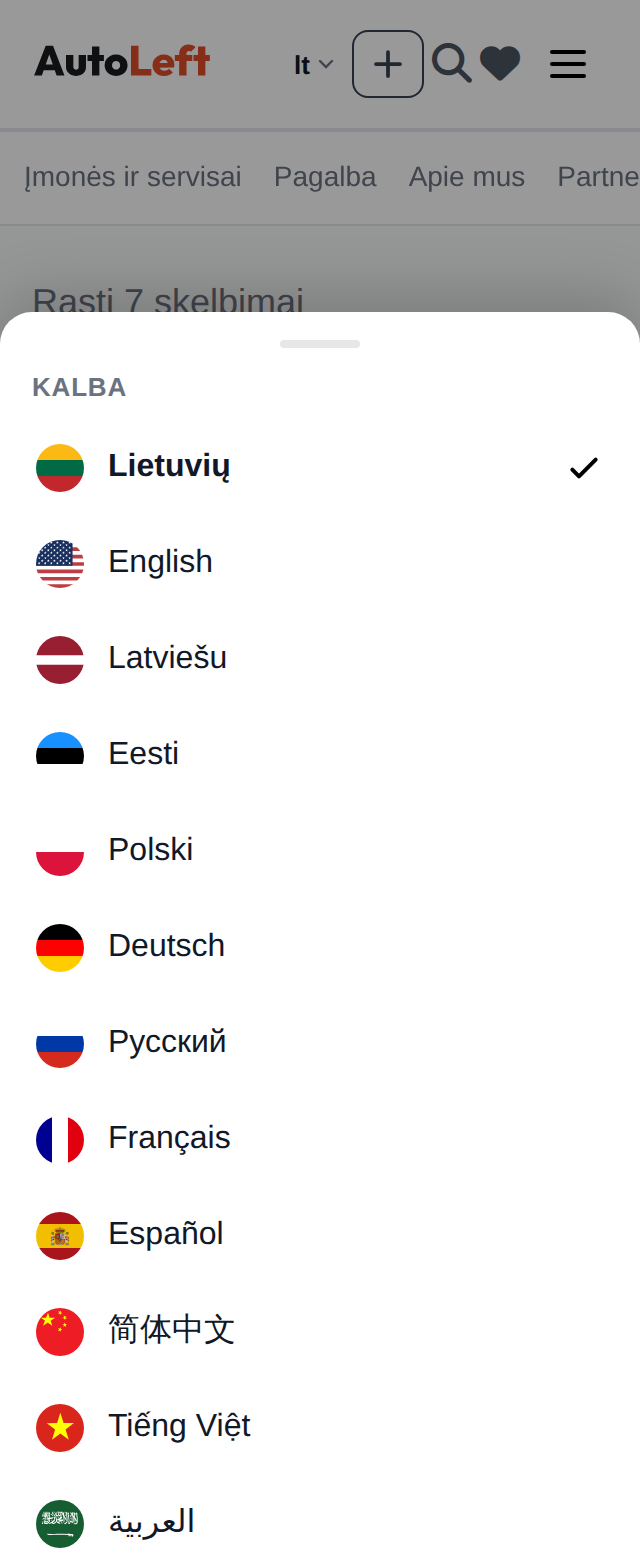
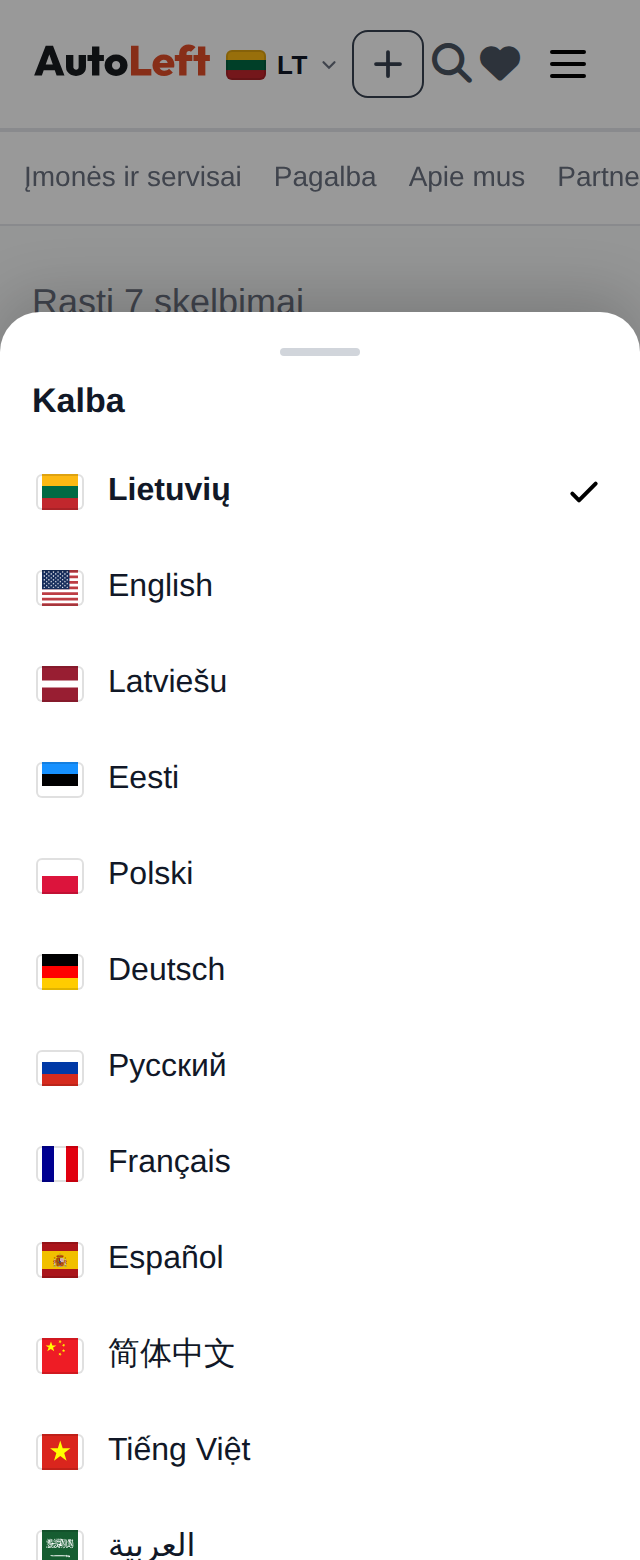
fix(antraste): mobili antraštė ir šalies juosta 1:1 pagal demo
Etalonas — docs/demo/mob-antraste-demo.html.

KALBOS MYGTUKAS. Vėliavėlė 20×15 (radius 3, vidinis rėmelis), kalbos
kodas ir 11 px rodyklė; 56×36 px, be fono ir rėmelio, tarpas 5 px.
Kodas rodomas DIDŽIOSIOMIS per `text-transform: uppercase` — pati
reikšmė duomenyse lieka „lt", „zh-hans". Slėpimo taisyklės ties 360 px
nebėra jokios. Vėliavos imamos iš flag-icons: static/flags/ turi tik
salys.py šalis, o cn/vn/sa/kr ten nėra ir kinų ar korėjiečių vartotojas
liktų be ženklo.

Vietos atlaisvina „Įkelti": ties ≤340 px lieka tik pliuso ženklas
(buvo ≤370 px).

ŠALIES JUOSTA. Viena 52 px eilutė, kuri nesilaužo: trumpinamas TIK
pavadinimas, o vėliava (18×13), skaičius ir „Keisti" — flex: 0 0 auto,
„Keisti" per margin-left:auto. Anksčiau ellipsis kabojo ant skaičiaus,
todėl telefone matėsi „18 sk…", o „Visos šalys" krisdavo į antrą eilutę.
Smeigtukas 15 px, „Keisti" 34 px su 11 px rodykle — kaip etalone.

KALBŲ LAKŠTAS. Apvalinimas 20 px, rankenėlė 40×4, antraštė „Kalba"
17 px/700 (tik lakšte — meniu ir poraštėje lieka kaip buvo), eilutės
48 px, vėliava 24×18, tekstas kairėje, aktyvi su varnele.

NUORODŲ JUOSTA jau slinko į šoną su paslėptu slankikliu — nekeista,
tik įtraukta į patikrą.

docs/mob_antrastes_playwright.js — 320/360/390/414/768 px: kalbos
mygtukas matomas, antraštės elementai vienoje eilutėje ir nepersidengia,
šalies juosta <= 52 px ir pavadinimas vienoje eilutėje, skaičius
netrumpinamas, scrollWidth <= innerWidth, lakštas kaip etalone.
[…]

diff --git a/docs/mob_antrastes_playwright.js b/docs/mob_antrastes_playwright.js
@@ -1,0 +1,144 @@
+/* MOBILI ANTRAŠTĖ IR ŠALIES JUOSTA — 320 / 360 / 390 / 414 / 768 px.
+ *
+ * Tikrina keturis dalykus kiekviename plotyje:
+ *   1. kalbos mygtukas matomas (getBoundingClientRect plotis > 0);
+ *   2. antraštės elementai vienoje eilutėje ir nepersidengia;
+ *   3. šalies juostos eilutė 52 px, ne daugiau (t. y. nesilaužo);
+ *   4. document.scrollWidth <= window.innerWidth.
+ *
+ * Paleidimas:  SP=<scratchpad> node docs/mob_antrastes_playwright.js
+ *              SP=<scratchpad> GYVAI=1 node docs/mob_antrastes_playwright.js
+ */
+const GYVAI = !!process.env.GYVAI;
+const { chromium, paruosti } = require(process.env.SP +
+  (GYVAI ? '/nuotrauka_gyva.js' : '/nuotrauka.js'));
+const A = GYVAI ? 'https://autoleft.com' : 'http://127.0.0.1:8899';
+const PLOCIAI = [320, 360, 390, 414, 768];
+const EKRANAI = __dirname + '/ekranai';
+
+let gerai = 0, blogai = 0;
+const tik = (s, k) => { s ? gerai++ : (blogai++, console.log('  NEPAVYKO: ' + k)); };
+
+(async () => {
+  const b = await chromium.launch({
+    executablePath: '/opt/pw-browsers/chromium-1194/chrome-linux/chrome', args: ['--no-sandbox'] });
+
+  for (const w of PLOCIAI) {
+    const p = await paruosti(b, w, 800);
+    await p.goto(A + '/', { waitUntil: 'domcontentloaded', timeout: 90000 });
+    await p.waitForTimeout(GYVAI ? 2500 : 1800);
+
+    const m = await p.evaluate(() => {
+      const r = e => e.getBoundingClientRect();
+      const k = document.querySelector('.kalbos-mygtukas');
+      const kr = k ? r(k) : null;
+      const kcs = k ? getComputedStyle(k) : null;
+
+      // Antraštės veiksmai: matomi tiesioginiai vaikai
+      const juosta = document.querySelector('.hdr-veiksmai');
+      const vaikai = juosta ? [...juosta.children].filter(e => r(e).width > 0) : [];
+      const dez = vaikai.map(e => ({ k: (e.className || '').toString().slice(0, 22),
+                                     l: Math.round(r(e).left), d: Math.round(r(e).right),
+                                     v: Math.round(r(e).top), a: Math.round(r(e).bottom) }));
+      let persidengia = 0, eilutes = new Set();
+      for (let i = 0; i < dez.length; i++) {
+        eilutes.add(Math.round(dez[i].v / 8));
+        for (let j = i + 1; j < dez.length; j++) {
+          if (dez[i].l < dez[j].d - 1 && dez[j].l < dez[i].d - 1
+              && dez[i].v < dez[j].a - 1 && dez[j].v < dez[i].a - 1) persidengia++;
+        }
+      }
+
+      const se = document.querySelector('.salies-eilute');
+      const vard = document.querySelector('.salies-vardas');
+      const kiek = document.querySelector('.salies-kiekis');
+      const nav = document.querySelector('.sec-nav-in');
+
+      return {
+        kalba: k ? { plotis: Math.round(kr.width), aukstis: Math.round(kr.height),
+                     kodas: (k.querySelector('.kalbos-kodas') || {}).textContent,
+                     didziosios: k.querySelector('.kalbos-kodas')
+                                 ? getComputedStyle(k.querySelector('.kalbos-kodas')).textTransform : null,
+                     veliava: k.querySelector('.fi')
+                              ? Math.round(r(k.querySelector('.fi')).width) + '×'
+                                + Math.round(r(k.querySelector('.fi')).height) : null,
+                     rodykle: k.querySelector('svg') ? Math.round(r(k.querySelector('svg')).width) : null,
+                     fonas: kcs.backgroundColor, remelis: kcs.borderTopWidth } : null,
+        antraste: { elementu: dez.length, eiluciu: eilutes.size, persidengia },
+        juosta: se ? { aukstis: Math.round(r(se).height),
+                       vardas: vard ? vard.textContent.trim() : null,
+                       vardoEilutes: vard ? Math.round(r(vard).height / 22) : null,
+                       kiekis: kiek ? kiek.textContent.trim() : null,
+                       kiekioOverflow: kiek ? getComputedStyle(kiek).textOverflow : null } : null,
+        nav: nav ? { slenka: getComputedStyle(nav).overflowX,
+                     plotis: Math.round(r(nav).width),
+                     turinys: nav.scrollWidth } : null,
+        langas: window.innerWidth, puslapis: document.documentElement.scrollWidth,
+      };
+    });
+
+    console.log('\n  ' + w + ' px');
+    console.log('    kalba:    ' + JSON.stringify(m.kalba));
+    console.log('    antraštė: ' + JSON.stringify(m.antraste));
+    console.log('    juosta:   ' + JSON.stringify(m.juosta));
+    console.log('    nuorodos: ' + JSON.stringify(m.nav));
+
+    tik(m.kalba && m.kalba.plotis > 0, w + ' — kalbos mygtuko nesimato');
+    tik(m.kalba && m.kalba.didziosios === 'uppercase', w + ' — kodas ne DIDŽIOSIOMIS');
+    tik(m.kalba && m.kalba.veliava === '20×15', w + ' — vėliava ne 20×15 (' + (m.kalba||{}).veliava + ')');
+    tik(m.kalba && m.kalba.rodykle === 11, w + ' — rodyklė ne 11 px (' + (m.kalba||{}).rodykle + ')');
+    tik(m.kalba && m.kalba.fonas === 'rgba(0, 0, 0, 0)' && m.kalba.remelis === '0px',
+        w + ' — mygtukas su fonu arba rėmeliu');
+    tik(m.antraste.eiluciu === 1, w + ' — antraštė ne vienoje eilutėje (' + m.antraste.eiluciu + ')');
+    tik(m.antraste.persidengia === 0, w + ' — antraštės elementai persidengia (' + m.antraste.persidengia + ')');
+    if (m.juosta) {
+      tik(m.juosta.aukstis <= 52, w + ' — šalies juosta ' + m.juosta.aukstis + ' px (turi būti <= 52)');
+      tik(m.juosta.vardoEilutes <= 1, w + ' — šalies pavadinimas dviem eilutėm');
+      tik(!/…|\.\.\./.test(m.juosta.kiekis || ''), w + ' — skaičius trumpinamas: „' + m.juosta.kiekis + '"');
+    }
+    if (m.nav) tik(m.nav.slenka === 'auto' || m.nav.slenka === 'scroll',
+                   w + ' — nuorodų juosta neslenka (' + m.nav.slenka + ')');
+    tik(m.puslapis <= m.langas + 1,
+        w + ' — puslapis platesnis už ekraną (' + m.puslapis + ' > ' + m.langas + ')');
+
+    // Lakštas — atidarom ir palyginam su etalonu (demo .sh / .krow)
+    await p.evaluate(() => document.querySelector('.kalbos-mygtukas').click());
+    await p.waitForTimeout(600);
+    const l = await p.evaluate(() => {
+      const r = e => e.getBoundingClientRect();
+      const sh = document.querySelector('.kalbos-lakstas');
+      if (!sh) return null;
+      const cs = getComputedStyle(sh);
+      const eil = [...sh.querySelectorAll('.kalbos-eilute')].filter(e => r(e).width > 0);
+      const e0 = eil[0], f = e0 && e0.querySelector('.fi');
+      const ant = sh.querySelector('.kalbos-antraste');
+      const rank = sh.querySelector('.kalbos-lakstas-rankena');
+      const akt = sh.querySelector('.kalbos-eilute.is-on');
+      return { radius: cs.borderTopLeftRadius,
+               rankena: rank ? Math.round(r(rank).width) + '×' + Math.round(r(rank).height) : null,
+               antraste: ant ? ant.textContent.trim() : null,
+               antrastesDydis: ant ? getComputedStyle(ant).fontSize : null,
+               eiluciu: eil.length,
+               eilutesAukstis: e0 ? Math.round(r(e0).height) : null,
+               veliava: f ? Math.round(r(f).width) + '×' + Math.round(r(f).height) : null,
+               lygiuote: e0 ? getComputedStyle(e0).textAlign : null,
+               vardas: e0 ? (e0.querySelector('.kalbos-vardas') || {}).textContent : null,
+               varnele: !!(akt && akt.querySelector('.kalbos-varnele')) };
+    });
+    console.log('    lakštas:  ' + JSON.stringify(l));
+    tik(l && l.radius === '20px', w + ' — lakšto apvalinimas ne 20 px (' + (l||{}).radius + ')');
+    tik(l && l.rankena === '40×4', w + ' — rankenėlė ne 40×4 (' + (l||{}).rankena + ')');
+    tik(l && l.antraste === 'Kalba', w + ' — lakšto antraštė ne „Kalba"');
+    tik(l && l.eilutesAukstis === 48, w + ' — eilutė ne 48 px (' + (l||{}).eilutesAukstis + ')');
+    tik(l && l.veliava === '24×18', w + ' — lakšto vėliava ne 24×18 (' + (l||{}).veliava + ')');
+    tik(l && l.lygiuote === 'left', w + ' — lakšto tekstas ne kairėje (' + (l||{}).lygiuote + ')');
+    tik(l && l.varnele, w + ' — aktyvi kalba be varnelės');
+
+    await p.screenshot({ path: EKRANAI + '/mob-antraste-' + (GYVAI ? 'gyva-' : '') + w + '.png' });
+    await p.close();
+  }
+
+  console.log('\nGerai: ' + gerai + ', blogai: ' + blogai);
+  await b.close();
+  process.exit(blogai ? 1 : 0);
+})().catch(e => { console.error(e); process.exit(1); });

diff --git a/templates/base.html b/templates/base.html
@@ -85,9 +85,9 @@
             .btn-sell { padding-left: 10px; padding-right: 10px; }
             .site-logo img { height: 22px; }
         }
-        /* Dar siauriau (≤370 px) arba su labai dideliu sistemos šriftu
-           „Įkelti" lieka tik pliuso ikona. */
-        @media (max-width: 370px) {
+        /* Vietos antraštėje atlaisvinam „Įkelti" sąskaita, ne kalbos:
+           ties ≤340 px lieka tik pliuso ženklas be žodžio. */
+        @media (max-width: 340px) {
             .btn-sell span { display: none; }
         }
 
@@ -301,8 +301,9 @@
                          font-size: 16px; color: var(--text); text-align: left;
                          transition: background-color var(--dur); }
         .kalbos-eilute:hover { background: var(--accent-soft); }
-        .kalbos-eilute .fi { width: 24px; height: 24px; border-radius: 50%;
-                             flex: 0 0 auto; }
+        .kalbos-eilute .fi { width: 24px; height: 18px; border-radius: 3px;
+                             flex: 0 0 auto;
+                             box-shadow: inset 0 0 0 1px rgba(0,0,0,.12); }
         .kalbos-vardas { flex: 1 1 auto; min-width: 0; overflow: hidden;
                          text-overflow: ellipsis; white-space: nowrap; }
         .kalbos-eilute.is-on .kalbos-vardas { font-weight: 600; }
@@ -321,13 +322,22 @@
            nematydavo didelė dalis žmonių. „lt ▾" telpa ir 320 px ekrane,
            todėl slėpimo taisyklės nebėra: KALBA MATOMA VISADA. Kai vietos
            trūksta, trumpėja „Įkelti" (žr. ≤370 px), o ne kalba. */
-        .kalbos-mygtukas { min-width: 28px; height: 32px; padding: 0 2px;
+        .kalbos-mygtukas { min-width: 56px; height: 36px; padding: 0 2px;
                            border: 0; background: none; cursor: pointer; flex: 0 0 auto;
                            display: none; align-items: center; justify-content: center;
-                           gap: 2px; color: var(--text); font-size: 13px;
-                           font-weight: 600; line-height: 1; }
-        .kalbos-mygtukas .kalbos-kodas { text-transform: lowercase; }
-        .kalbos-mygtukas svg { width: 12px; height: 12px; flex: 0 0 auto;
+                           gap: 5px; line-height: 1; }
+        /* Vėliavėlė 20×15 — kaip visur kitur svetainėje (ne apskritimas).
+           Kalbų vėliavos imamos iš flag-icons, o ne iš static/flags/:
+           ten yra tik salys.py šalys, o cn/vn/sa/kr nėra — kinų ar korėjiečių
+           vartotojas liktų be jokio ženklo. */
+        .kalbos-mygtukas .fi { width: 20px; height: 15px; border-radius: 3px;
+                               flex: 0 0 auto;
+                               box-shadow: inset 0 0 0 1px rgba(0,0,0,.12); }
+        /* Kodas DIDŽIOSIOMIS per CSS — pati reikšmė lieka „lt", „zh-hans". */
+        .kalbos-mygtukas .kalbos-kodas { text-transform: uppercase; font-size: 13px;
+                                         font-weight: 700; letter-spacing: .3px;
+                                         color: var(--text); flex: 0 0 auto; }
+        .kalbos-mygtukas svg { width: 11px; height: 11px; flex: 0 0 auto;
                                color: var(--text-muted); }
         @media (max-width: 1023px) { .kalbos-mygtukas { display: inline-flex; } }
 
@@ -335,12 +345,17 @@
         .kalbos-uzdanga { position: fixed; inset: 0; background: rgba(0,0,0,.4);
                           z-index: 80; }
         .kalbos-lakstas { position: fixed; left: 0; right: 0; bottom: 0; z-index: 81;
-                          background: var(--surface); border-radius: 16px 16px 0 0;
+                          background: var(--surface); border-radius: 20px 20px 0 0;
                           padding: 8px 16px calc(16px + env(safe-area-inset-bottom));
                           max-height: 80vh; overflow-y: auto;
                           box-shadow: 0 -8px 30px rgba(0,0,0,.18); }
         .kalbos-lakstas-rankena { width: 40px; height: 4px; border-radius: 2px;
-                                  background: var(--border); margin: 6px auto 10px; }
+                                  background: var(--strong, #D1D5DB); margin: 10px auto 4px; }
+        /* Lakšte antraštė yra pavadinimas, ne skyrelio žymė (demo .sh h3).
+           Meniu ir poraštėje .kalbos-antraste lieka kaip buvo. */
+        .kalbos-lakstas .kalbos-antraste { font-size: 17px; font-weight: 700;
+                                           color: var(--text); text-transform: none;
+                                           letter-spacing: 0; padding: 6px 0 8px; }
 
         /* Poraštė */
         .kalbos-porastes { position: relative; }
@@ -431,6 +446,7 @@
                             aria-label="{% trans 'Kalba' %}">
                         {% comment %}Kodas dviem raidėmis: „zh-hans" siauroje
                         antraštėje netilptų, o „zh" atpažįstamas.{% endcomment %}
+                        <span class="fi fi-{{ CURRENT_LANG|veliavos_kodas }}"></span>
                         <span class="kalbos-kodas">{{ CURRENT_LANG|slice:':2' }}</span>
                         <svg viewBox="0 0 24 24" fill="none" stroke="currentColor"
                              stroke-width="2.4" aria-hidden="true"><path stroke-linecap="round" d="M6 9l6 6 6-6"/></svg>

diff --git a/static/css/salies_juosta.css b/static/css/salies_juosta.css
@@ -10,35 +10,45 @@
     margin: 0 auto 16px;          /* 16 px tarpas iki panelės */
 }
 
+/* VIENA EILUTĖ, KURI NIEKADA NESILAUŽO.
+   Trumpinti galima TIK pavadinimą: vėliava, skaičius ir „Keisti" yra
+   fiksuoto pločio. Anksčiau buvo atvirkščiai — ellipsis kabojo ant
+   skaičiaus, todėl telefone matėsi „18 sk…", o „Visos šalys" krisdavo
+   į antrą eilutę. */
 .salies-eilute {
     display: flex;
     align-items: center;
-    gap: 10px;
-    height: 56px;
-    padding: 0 18px;
+    gap: 8px;
+    height: 52px;
+    padding: 0 10px 0 12px;
     background: #fff;
     border: 1px solid #E5E7EB;
     border-radius: 12px;
 }
 
-.salies-smeigtukas { width: 18px; height: 18px; flex: 0 0 auto; color: #1A1A1A; }
+.salies-smeigtukas { width: 15px; height: 15px; flex: 0 0 auto; color: #6B7280; }
 /* Eilutės vėliavėlė kiek didesnė nei sąraše — kaip demo (.fl-b) */
 .salies-eilute .veliava-didele { margin-right: 0; }
-.salies-vardas { font-size: 15px; font-weight: 600; color: #1A1A1A; }
-.salies-kiekis { font-size: 14px; color: #6B7280; min-width: 0;
-                 overflow: hidden; text-overflow: ellipsis; white-space: nowrap; }
+/* Eilutėje vėliavėlė 18×13 (demo .salis .fl) — siauresnė nei sąraše,
+   kad 320 px ekrane liktų vietos pavadinimui. */
+.salies-eilute .veliava { flex: 0 0 auto; width: 18px; height: 13px; }
+.salies-vardas { font-size: 15px; font-weight: 600; color: #1A1A1A;
+                 min-width: 0; overflow: hidden; text-overflow: ellipsis;
+                 white-space: nowrap; }
+.salies-kiekis { font-size: 13px; color: #6B7280; flex: 0 0 auto;
+                 white-space: nowrap; }
 
 .salies-keisti {
     margin-left: auto;
     display: flex;
     align-items: center;
     gap: 8px;
-    height: 36px;
-    padding: 0 14px;
+    height: 34px;
+    padding: 0 12px;
     border: 1px solid #D1D5DB;
     border-radius: 999px;
     background: #fff;
-    font-size: 14px;
+    font-size: 13px;
     font-weight: 600;
     color: #1A1A1A;
     cursor: pointer;
@@ -46,14 +56,14 @@
     transition: border-color .15s;
 }
 .salies-keisti:hover { border-color: #9CA3AF; }
-.salies-keisti svg { width: 13px; height: 13px; transition: transform .15s; }
+.salies-keisti svg { width: 11px; height: 11px; transition: transform .15s; }
 
 /* ── Langas ─────────────────────────────────────────────────────── */
 .salies-uzdanga { position: fixed; inset: 0; z-index: 40; }
 
 .salies-langas {
     position: absolute;
-    top: calc(56px + 8px);
+    top: calc(52px + 8px);
     right: 0;
     z-index: 41;
     width: 420px;
@@ -131,13 +141,11 @@
         margin: 8px auto 4px;
     }
     .salies-sarasas { max-height: none; flex: 1 1 auto; }
-    /* Siaurame ekrane „Keisti šalį" lieka tik rodyklė su ikona */
-    .salies-kiekis { flex: 1 1 auto; }
+    /* Skaičius NEIŠTEMPIAMAS ir netrumpinamas — vietos atlaisvina
+       pavadinimas (žr. .salies-vardas ellipsis). */
 }
-@media (max-width: 400px) {
-    .salies-eilute { padding: 0 12px; gap: 8px; }
-    .salies-keisti { padding: 0 10px; }
-}
+/* Siauriau nieko atskirai nebereikia: eilutė ir taip viena, o vietos
+   atlaisvina pavadinimo ellipsis. */
 
 
 /* ═══ ŠONINĖS JUOSTOS BLOKAS (stilius='sonine') ═══════════════════

diff --git a/docs/taisykles.md b/docs/taisykles.md
@@ -393,16 +393,27 @@ Antraštės kalbos perjungiklis nėra slepiamas jokiame plotyje. Ties
 ≤360 px jis buvo dingęs, o 360 CSS px (720 fizinių taškų, DPR 2) yra
 dažniausias Android plotis — kalbos nematydavo didelė dalis žmonių.
 
-Pavidalas telefone: siauras tekstinis „lt ▾" — dabartinės kalbos kodas
-mažosiomis (dvi raidės) ir 12 px rodyklė. ~28 px pločio, 32 px aukščio,
-be fono ir be rėmelio; telpa ir 320 px ekrane.
+Pavidalas telefone (etalonas `docs/demo/mob-antraste-demo.html`):
+vėliavėlė 20×15, kalbos kodas DIDŽIOSIOMIS (13 px, svoris 700, tarpas
+tarp raidžių 0,3 px — per `text-transform`, pati reikšmė lieka „lt") ir
+11 px rodyklė. ~56 px pločio, 36 px aukščio, be fono ir be rėmelio;
+telpa ir 320 px ekrane.
 
-Kai antraštėje trūksta vietos, trumpinama „Įkelti" (≤370 px lieka tik
+Kai antraštėje trūksta vietos, trumpinama „Įkelti" (≤340 px lieka tik
 „+"), o NE kalba.
 
-Patikra: `docs/kalbos_perjungiklis_playwright.js` — 320, 360, 390, 414 ir
-768 px; krenta, jei bent viename perjungiklio nėra, jis neatsidaro arba
-antraštė plečia puslapį. `GYVAI=1` — tikrina gyvoje svetainėje.
+Šalies juosta — VIENA 52 px eilutė, kuri nesilaužo: trumpinamas tik
+pavadinimas (`ellipsis`), o vėliava, skaičius ir „Keisti" yra
+`flex: 0 0 auto`; „Keisti" nustumiamas per `margin-left: auto`.
+
+Nuorodų juosta po antrašte slenka į šoną (`overflow-x: auto`,
+`white-space: nowrap`, slankiklis paslėptas) ir puslapio neišplečia.
+
+Patikra: `docs/kalbos_perjungiklis_playwright.js` ir
+`docs/mob_antrastes_playwright.js` — 320, 360, 390, 414 ir 768 px:
+perjungiklis matomas, antraštė vienoje eilutėje be persidengimo, šalies
+juosta ne aukštesnė kaip 52 px, `scrollWidth <= innerWidth`, lakštas
+kaip etalone. `GYVAI=1` — tikrina gyvoje svetainėje.
 
 ---
 
